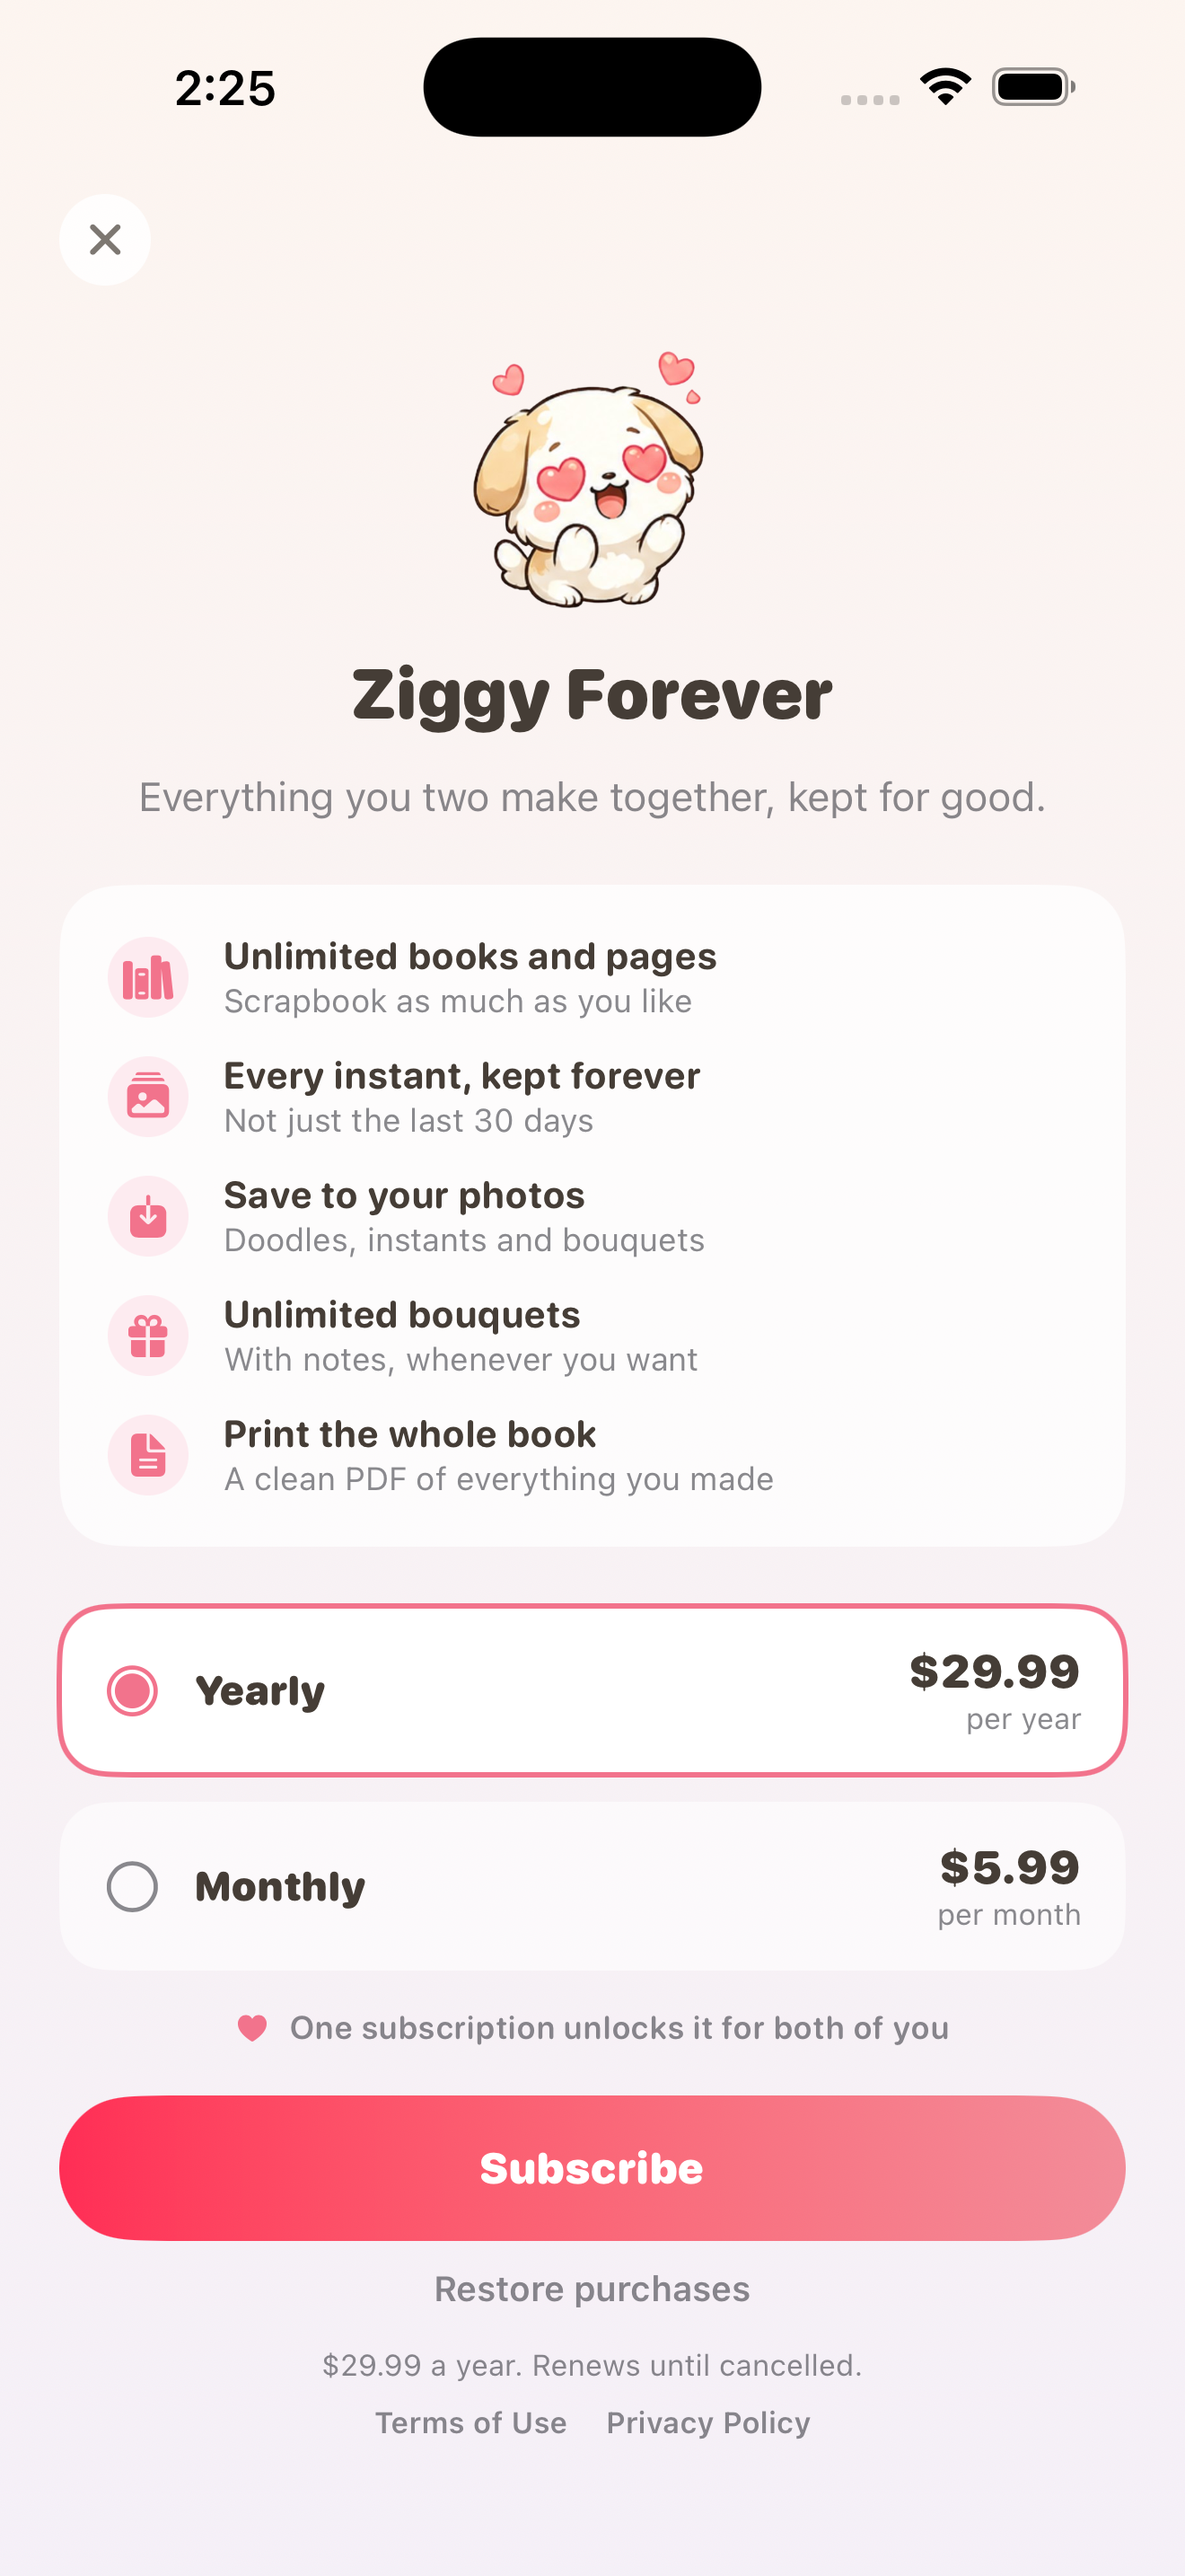
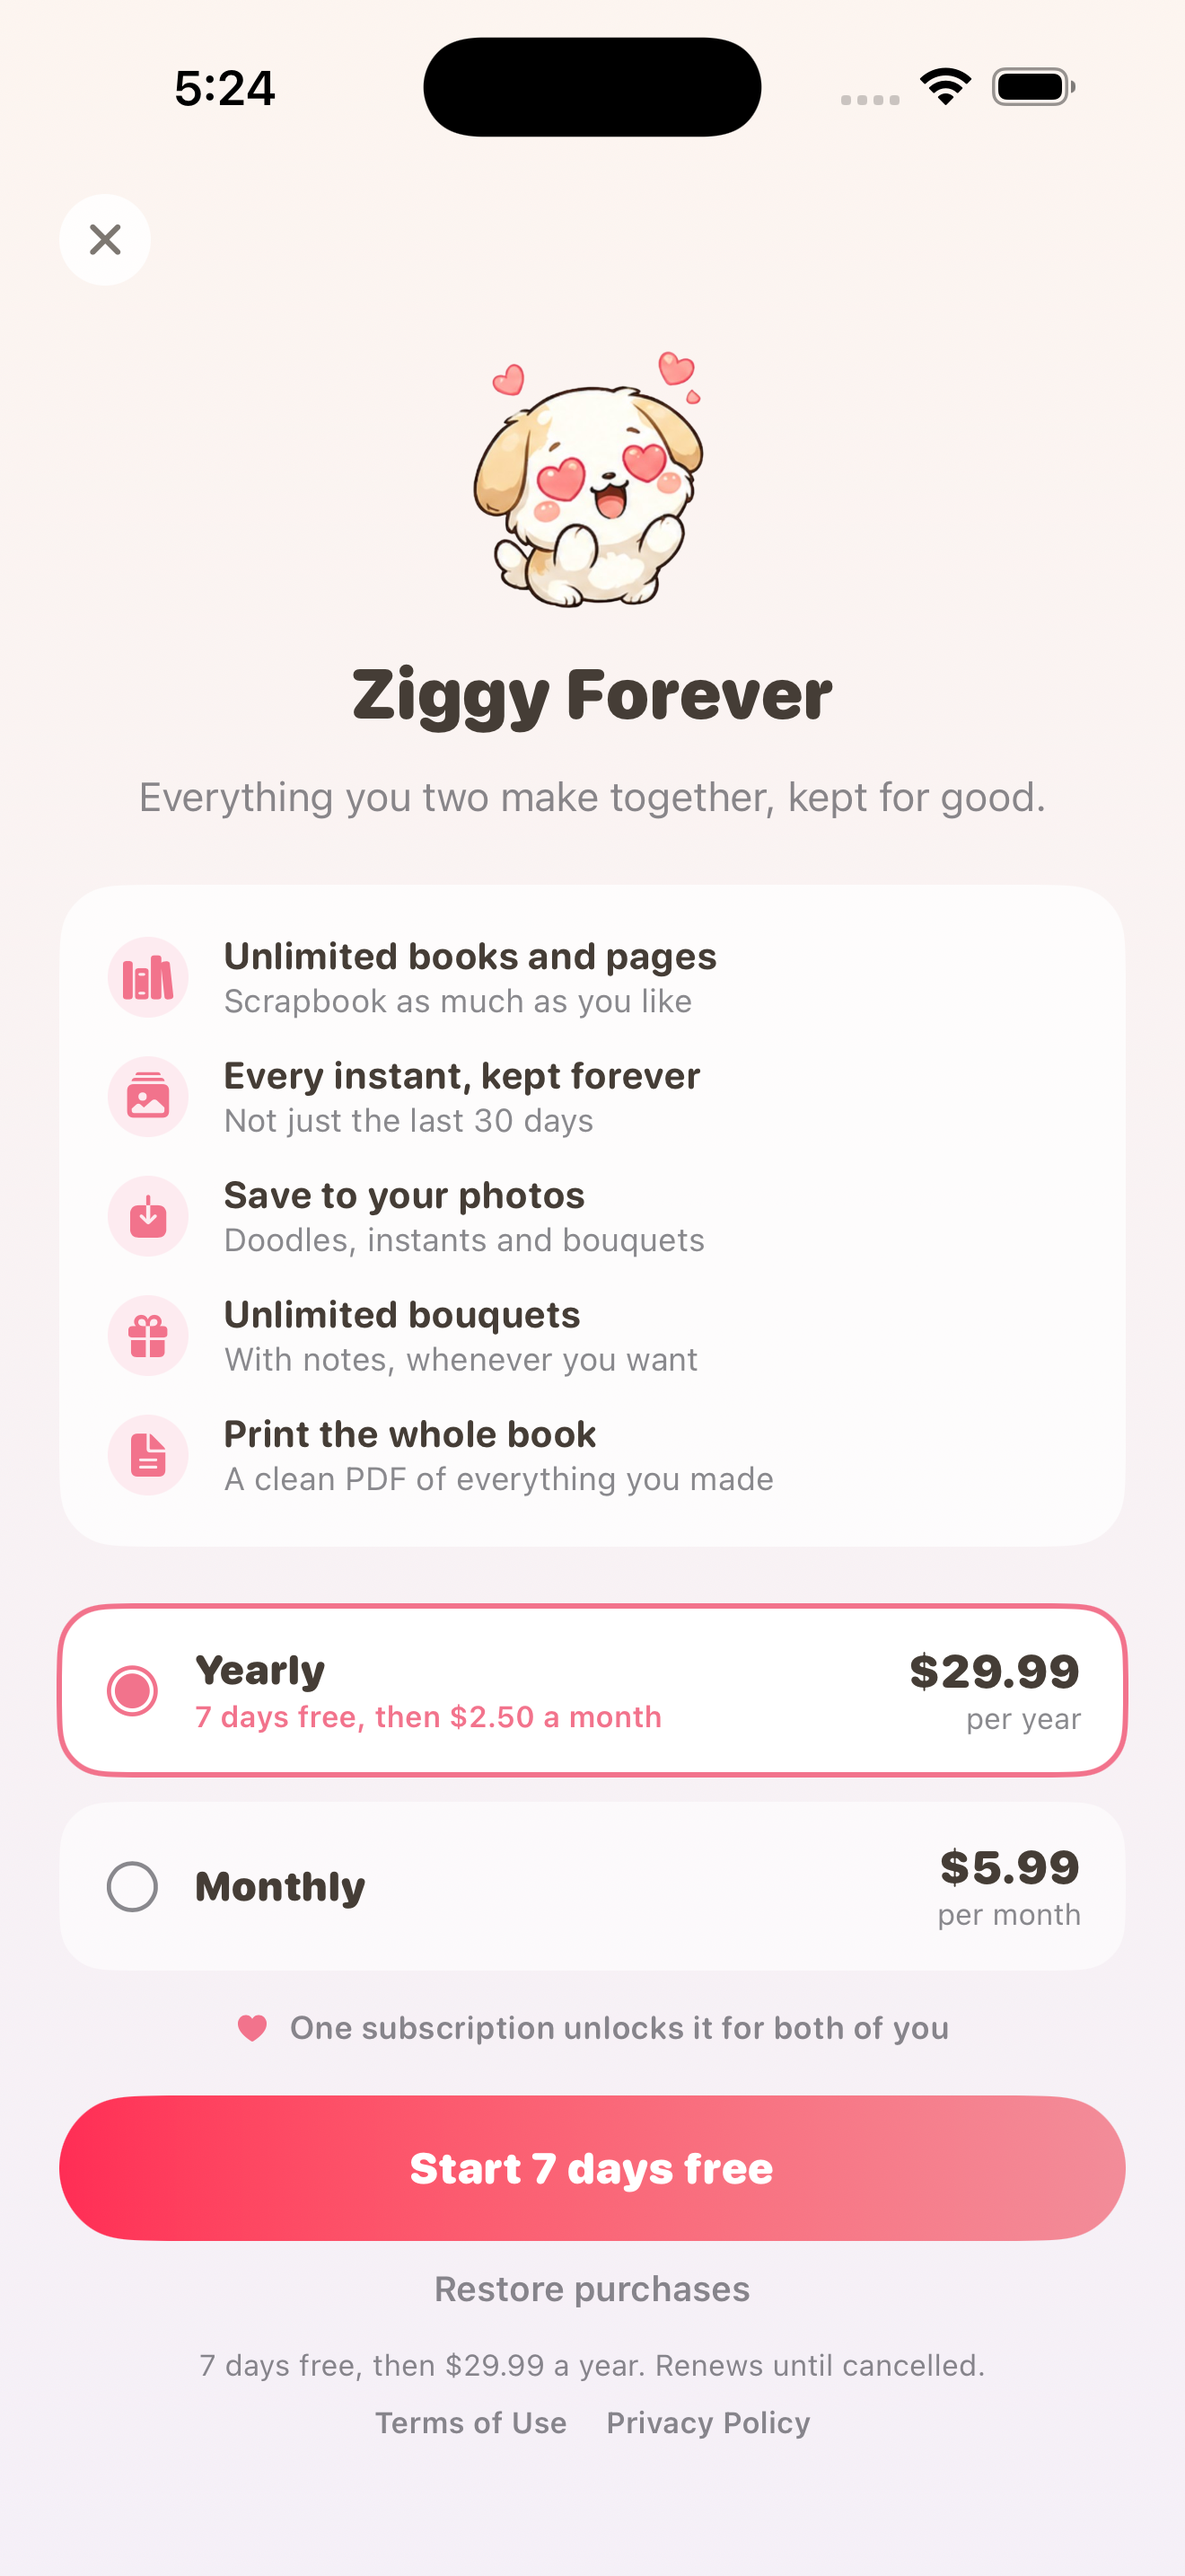
Make the rules safe to deploy, and prove it
Two faults, both of which would only have shown up in production.

Claiming a code reads the document first and writes only if nobody
holds it. But `resource` is null for a document that does not exist,
so `current()` was empty, and nobody is ever in an empty list — the
read was denied. The rule meant to protect relationships would have
stopped anyone from starting one, and every new couple would have met
"Could not create invite". A document that does not exist has no
contents, so allowing that read says only whether a code is free —
which a guesser could already learn by trying to join it. Querying
runs over documents that do exist and keeps the strict rule.

The second was found by the tests rather than by reading. Everything
inside a relationship was matched with `{path=**}`, and a recursive
wildcard also matches zero segments — the relationship document
itself. Being the broader rule it quietly won, so a member could
sidestep the two-member cap and delete the relationship outright.
Naming a collection first confines it to what is underneath.

Deleting is now decided rather than inherited: a member may, because
that is what Delete Everything does and Apple requires it, and the app
says plainly that it takes the shared relationship with it. A guessed
code cannot.

The tests are the point. This is the one file here where a mistake is
silent — nothing fails to build, no screen looks wrong, and the damage
[…]

diff --git a/tests/firestore-rules.test.js b/tests/firestore-rules.test.js
@@ -1,0 +1,182 @@
+// Exercises firestore.rules against the real Firestore emulator.
+//
+// The question that matters: can a new couple still pair once these rules are
+// live? Everything else here is the protection those rules exist for.
+
+const fs = require("fs");
+const {
+  initializeTestEnvironment,
+  assertSucceeds,
+  assertFails,
+} = require("@firebase/rules-unit-testing");
+
+const RULES = require("path").join(__dirname, "..", "firestore.rules");
+
+let passed = 0;
+let failed = 0;
+
+async function check(name, promise) {
+  try {
+    await promise;
+    console.log(`  PASS  ${name}`);
+    passed++;
+  } catch (e) {
+    console.log(`  FAIL  ${name}`);
+    console.log(`        ${String(e).split("\n")[0]}`);
+    failed++;
+  }
+}
+
+(async () => {
+  const env = await initializeTestEnvironment({
+    projectId: "ziggy-rules-test",
+    firestore: {
+      rules: fs.readFileSync(RULES, "utf8"),
+      host: "127.0.0.1",
+      port: 8080,
+    },
+  });
+
+  const alice = env.authenticatedContext("alice").firestore();
+  const bob = env.authenticatedContext("bob").firestore();
+  const mallory = env.authenticatedContext("mallory").firestore();
+  const stranger = env.unauthenticatedContext().firestore();
+
+  console.log("\nPAIRING — the path every new couple takes\n");
+
+  // The fix. Claiming a code reads the document first; if that read is
+  // denied, nobody can ever start a relationship.
+  await check(
+    "read a code nobody holds",
+    assertSucceeds(alice.doc("relationships/ABC123").get())
+  );
+
+  await check(
+    "claim a free code with yourself as the only member",
+    assertSucceeds(
+      alice.doc("relationships/ABC123").set({
+        createdAt: new Date(),
+        members: ["alice"],
+      })
+    )
+  );
+
+  await check(
+    "partner joins by adding only themselves",
+    assertSucceeds(
+      bob.doc("relationships/ABC123").set(
+        { members: ["alice", "bob"] },
+        { merge: true }
+      )
+    )
+  );
+
+  console.log("\nPROTECTION — what the rules are for\n");
+
+  await check(
+    "a stranger cannot claim a code that is taken",
+    assertFails(
+      mallory.doc("relationships/ABC123").set(
+        { members: ["mallory"] },
+        { merge: true }
+      )
+    )
+  );
+
+  await check(
+    "a third person cannot join a full relationship",
+    assertFails(
+      mallory.doc("relationships/ABC123").set(
+        { members: ["alice", "bob", "mallory"] },
+        { merge: true }
+      )
+    )
+  );
+
+  await check(
+    "a non-member cannot read the relationship",
+    assertFails(mallory.doc("relationships/ABC123").get())
+  );
+
+  await check(
+    "a non-member cannot read the scrapbook inside it",
+    assertFails(mallory.doc("relationships/ABC123/books/b1").get())
+  );
+
+  await check(
+    "a member can write inside it",
+    assertSucceeds(
+      alice.doc("relationships/ABC123/books/b1").set({ title: "Us" })
+    )
+  );
+
+  await check(
+    "the partner can read what the other wrote",
+    assertSucceeds(bob.doc("relationships/ABC123/books/b1").get())
+  );
+
+  await check(
+    "signed out reads nothing, even a free code",
+    assertFails(stranger.doc("relationships/ZZZ999").get())
+  );
+
+  // The recursive wildcard covering everything inside also matched the
+  // relationship document itself, and being broader it won — letting a member
+  // sidestep the two-member cap the rules above take such care over.
+  await check(
+    "a member cannot add a third person past the cap",
+    assertFails(
+      alice.doc("relationships/ABC123").set(
+        { members: ["alice", "bob", "mallory"] },
+        { merge: true }
+      )
+    )
+  );
+
+  await check(
+    "a non-member cannot delete the relationship",
+    assertFails(mallory.doc("relationships/ABC123").delete())
+  );
+
+  console.log("\nSUBSCRIPTION — the entitlement lives on the relationship\n");
+
+  await check(
+    "a member can read the entitlement",
+    assertSucceeds(alice.doc("relationships/ABC123").get())
+  );
+
+  await check(
+    "an outsider cannot grant themselves one",
+    assertFails(
+      mallory.doc("relationships/ABC123").set(
+        { activeUntil: new Date(2030, 0, 1) },
+        { merge: true }
+      )
+    )
+  );
+
+  console.log("\nRECOVERY — freeing a lost partner's place\n");
+
+  await check(
+    "a member can remove the other so they can rejoin",
+    assertSucceeds(
+      alice.doc("relationships/ABC123").set(
+        { members: ["alice"] },
+        { merge: true }
+      )
+    )
+  );
+
+  console.log("\nDELETION — Delete Everything, which Apple requires\n");
+
+  // Last, because it destroys the fixture everything above depends on.
+  await check(
+    "a member can delete their own relationship",
+    assertSucceeds(alice.doc("relationships/ABC123").delete())
+  );
+
+  await env.cleanup();
+
+  console.log(`\n${passed} passed, ${failed} failed\n`);
+  process.exit(failed === 0 ? 0 : 1);
+})();

diff --git a/tests/README.md b/tests/README.md
@@ -1,0 +1,35 @@
+# Security rule tests
+
+`firestore.rules` decides who can read a couple's photos, messages and
+scrapbook. It is the one file in this repository where a mistake is silent:
+nothing fails to build, no screen looks wrong, and the damage is only visible
+from outside. These tests run the real rules against the Firestore emulator so
+that a mistake fails here instead.
+
+Run them before every rules deploy.
+
+## Running
+
+Requires Java, which the Firestore emulator needs:
+
+    brew install openjdk
+
+Then, from this directory:
+
+    npm install
+    npm test
+
+## What they cover
+
+Pairing — reading a code nobody holds, claiming it, a partner joining. This is
+the path every new couple takes, and the one most easily broken by a rule
+written to protect something else.
+
+Protection — a stranger claiming a taken code, a third person joining, a
+non-member reading the relationship or the scrapbook inside it, an outsider
+granting themselves a subscription.
+
+Recovery — a member freeing a lost partner's place so they can rejoin.
+
+Deletion — a member deleting their own relationship, which Settings offers and
+Apple requires, and a non-member being refused.
